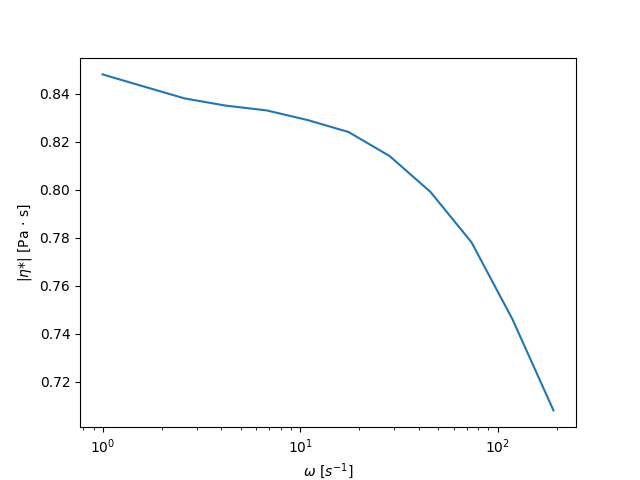
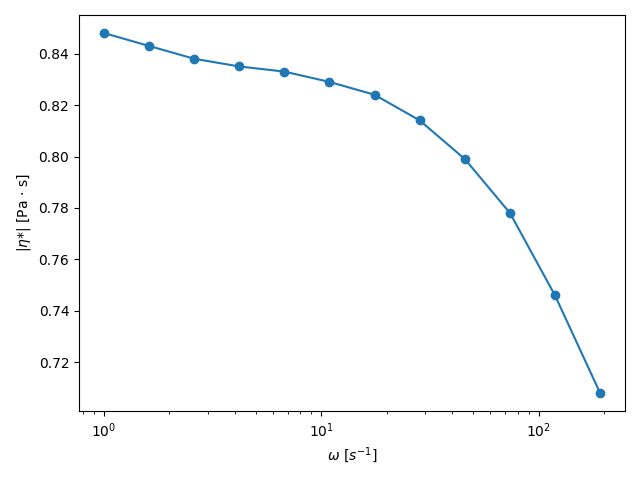
Rheo angepasst

diff --git a/1. Abgabe/Rheology/Plots/plotsAufgabe2AMP.py b/1. Abgabe/Rheology/Plots/plotsAufgabe2AMP.py
@@ -10,38 +10,42 @@ dataAMP = pd.read_csv(allDataPath + "\\" + data[0] + ".csv", sep=";", decimal=",
 
 # Gemeinsame Daten extrahieren
 amplitude = dataAMP["Deformation [%]"].to_numpy(dtype=float)
-g1 = dataAMP["Speichermodul [Pa]"].to_numpy(dtype=float)
-g2 = dataAMP["Verlustmodul [Pa]"].to_numpy(dtype=float)
+g1 = dataAMP["Speichermodul [Pa]"].to_numpy(dtype=float) 
+g2 = dataAMP["Verlustmodul [Pa]"].to_numpy(dtype=float) 
 eta = dataAMP["Betrag(Viskosität) [Pa·s]"].to_numpy(dtype=float)
 
 # --- Plot 1: G' ---
 plt.figure()
-plt.plot(amplitude, g1)
 plt.xscale("log")
 plt.yscale("log")
+plt.plot(amplitude, g1, marker = "o")
+
 plt.xlim(0.005, 10)
 plt.xlabel("deformation [%]")
 plt.ylabel("G' [Pa]")
+plt.tight_layout()
 plt.savefig(savePath + r"\20_PVP_amp_G1.png")
 plt.show()
 
 # --- Plot 2: G'' ---
 plt.figure() # Erstellt ein frisches Fenster
-plt.plot(amplitude, g2)
 plt.xscale("log")
-plt.yscale("log")
+plt.plot(amplitude * 1000, g2, marker = "o")
+
 # plt.ylim() wurde entfernt, da es ohne Argumente die Achsen stören kann
 plt.xlabel("deformation [%]")
 plt.ylabel("G'' [Pa]")
+plt.tight_layout()
 plt.savefig(savePath + r"\20_PVP_amp_G2.png")
 plt.show()
 
 # --- Plot 3: Viskosität ---
 plt.figure()
-plt.plot(amplitude, eta)
 plt.xscale("log")
-plt.yscale("log")
+plt.plot(amplitude *1000, eta, marker = "o")
+
 plt.xlabel("deformation [%]")
 plt.ylabel(r"|$\eta$*| [Pa $\cdot$ s]")
+plt.tight_layout()
 plt.savefig(savePath + r"\20_PVP_amp_eta.png")
 plt.show()

diff --git a/1. Abgabe/Rheology/Plots/plotsAufgabe2FRQ.py b/1. Abgabe/Rheology/Plots/plotsAufgabe2FRQ.py
@@ -20,8 +20,11 @@ tanDelta = dataFRQ["Betrag(Viskosität) [Pa·s]"]
 
 frequenz = dataFRQ["Kreisfrequenz [1/s]"]
 
-plt.plot(frequenz, tanDelta)
-plt.savefig(r"D:\Dokumente\Uni laptop\Chemie\Poly\1. Abgabe\Rheology\Bilder" + "\\" + "20_PVP_frq_betragEta.png")
+plt.plot(frequenz, tanDelta, marker = "o")
+plt.tight_layout()
+plt.savefig(r"D:\Dokumente\Uni laptop\Chemie\Poly\1. Abgabe\Rheology\Bilder\20_PVP_frq_betragEta.png")
+plt.show()
+
 
 plt.clf()
 
@@ -31,7 +34,9 @@ plt.xlim(1, 10e1)
 plt.xscale("log")
 plt.yscale("log")
 
-plt.plot(frequenz, g1, label = "G'")
-plt.plot(frequenz, g2, label = "G''")
+plt.plot(frequenz, g1, label = "G'", marker = "o")
+plt.plot(frequenz, g2, label = "G''", marker = "o")
 plt.legend()
-plt.savefig(r"D:\Dokumente\Uni laptop\Chemie\Poly\1. Abgabe\Rheology\Bilder" + "\\" + "20_PVP_frq_G1_G2.png")
+plt.tight_layout()
+plt.savefig(r"D:\Dokumente\Uni laptop\Chemie\Poly\1. Abgabe\Rheology\Bilder\20_PVP_frq_G1_G2.png")
+plt.show()
